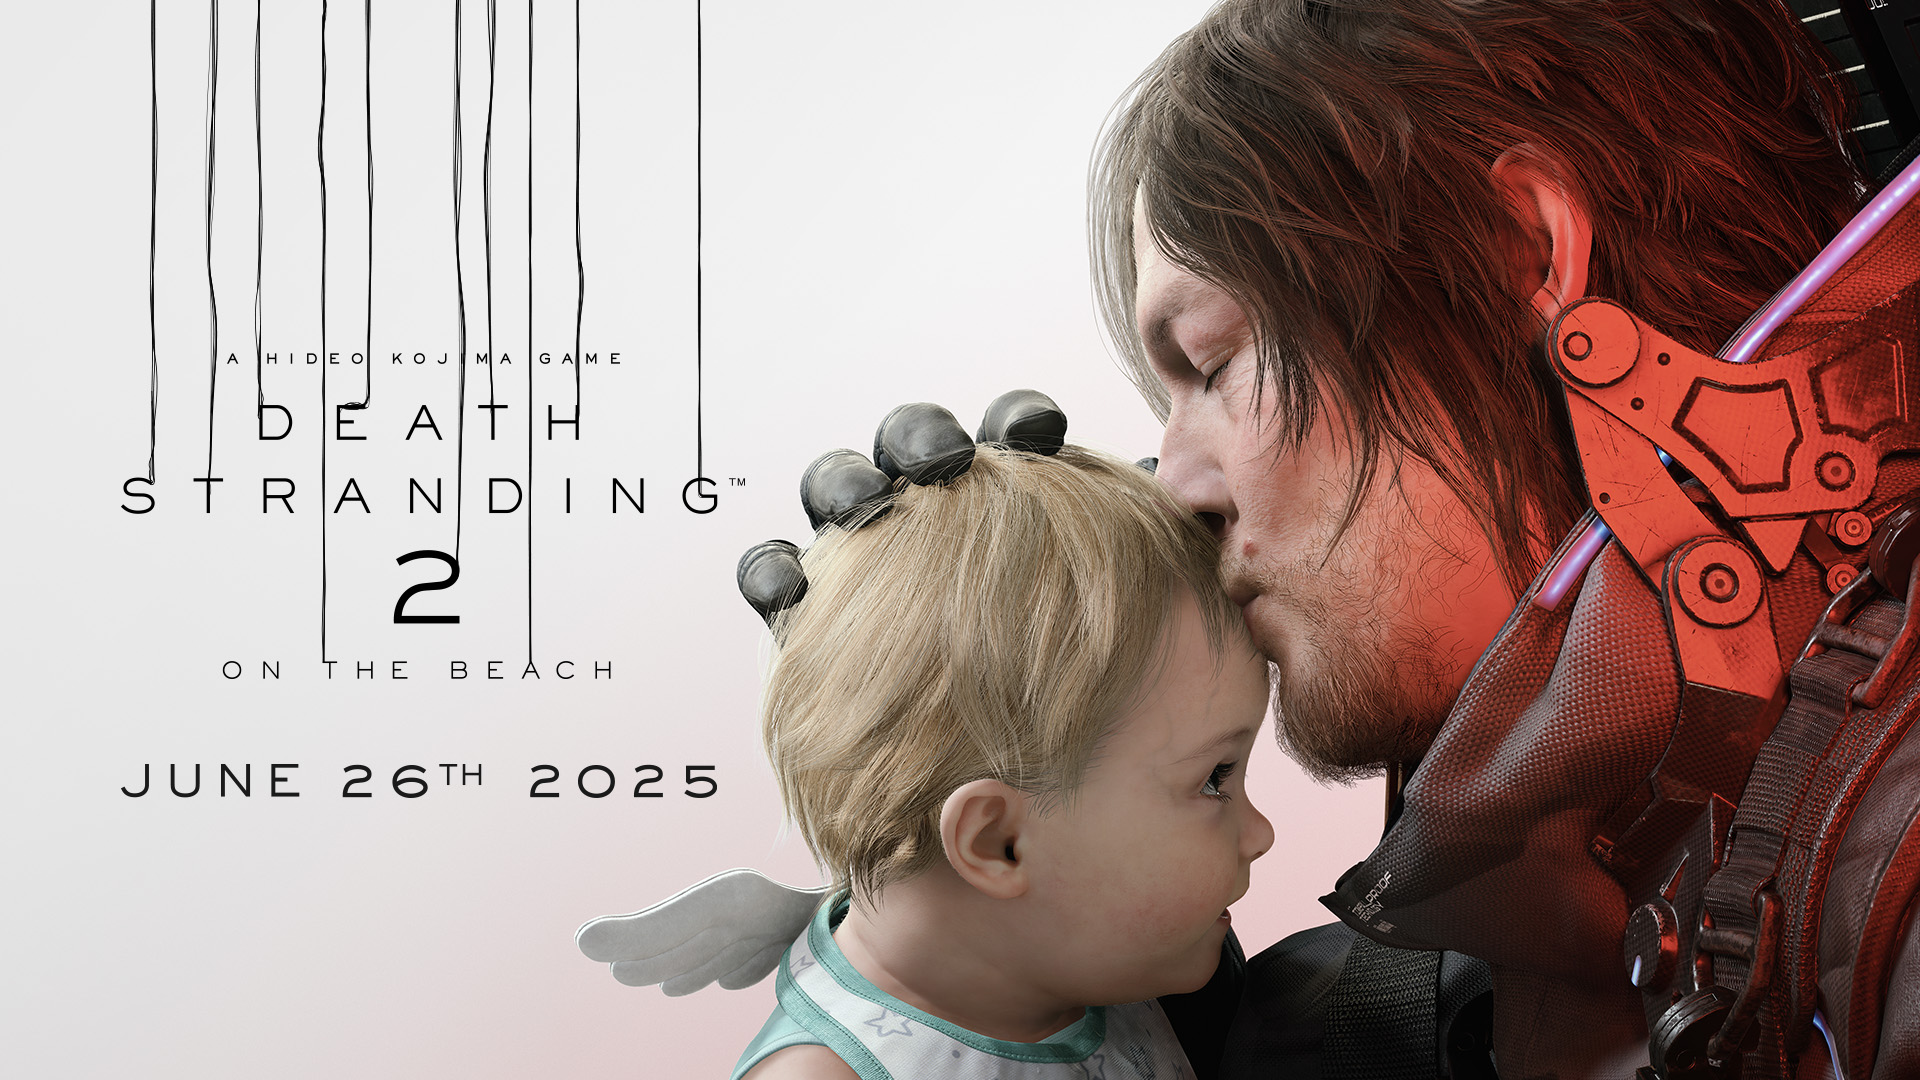
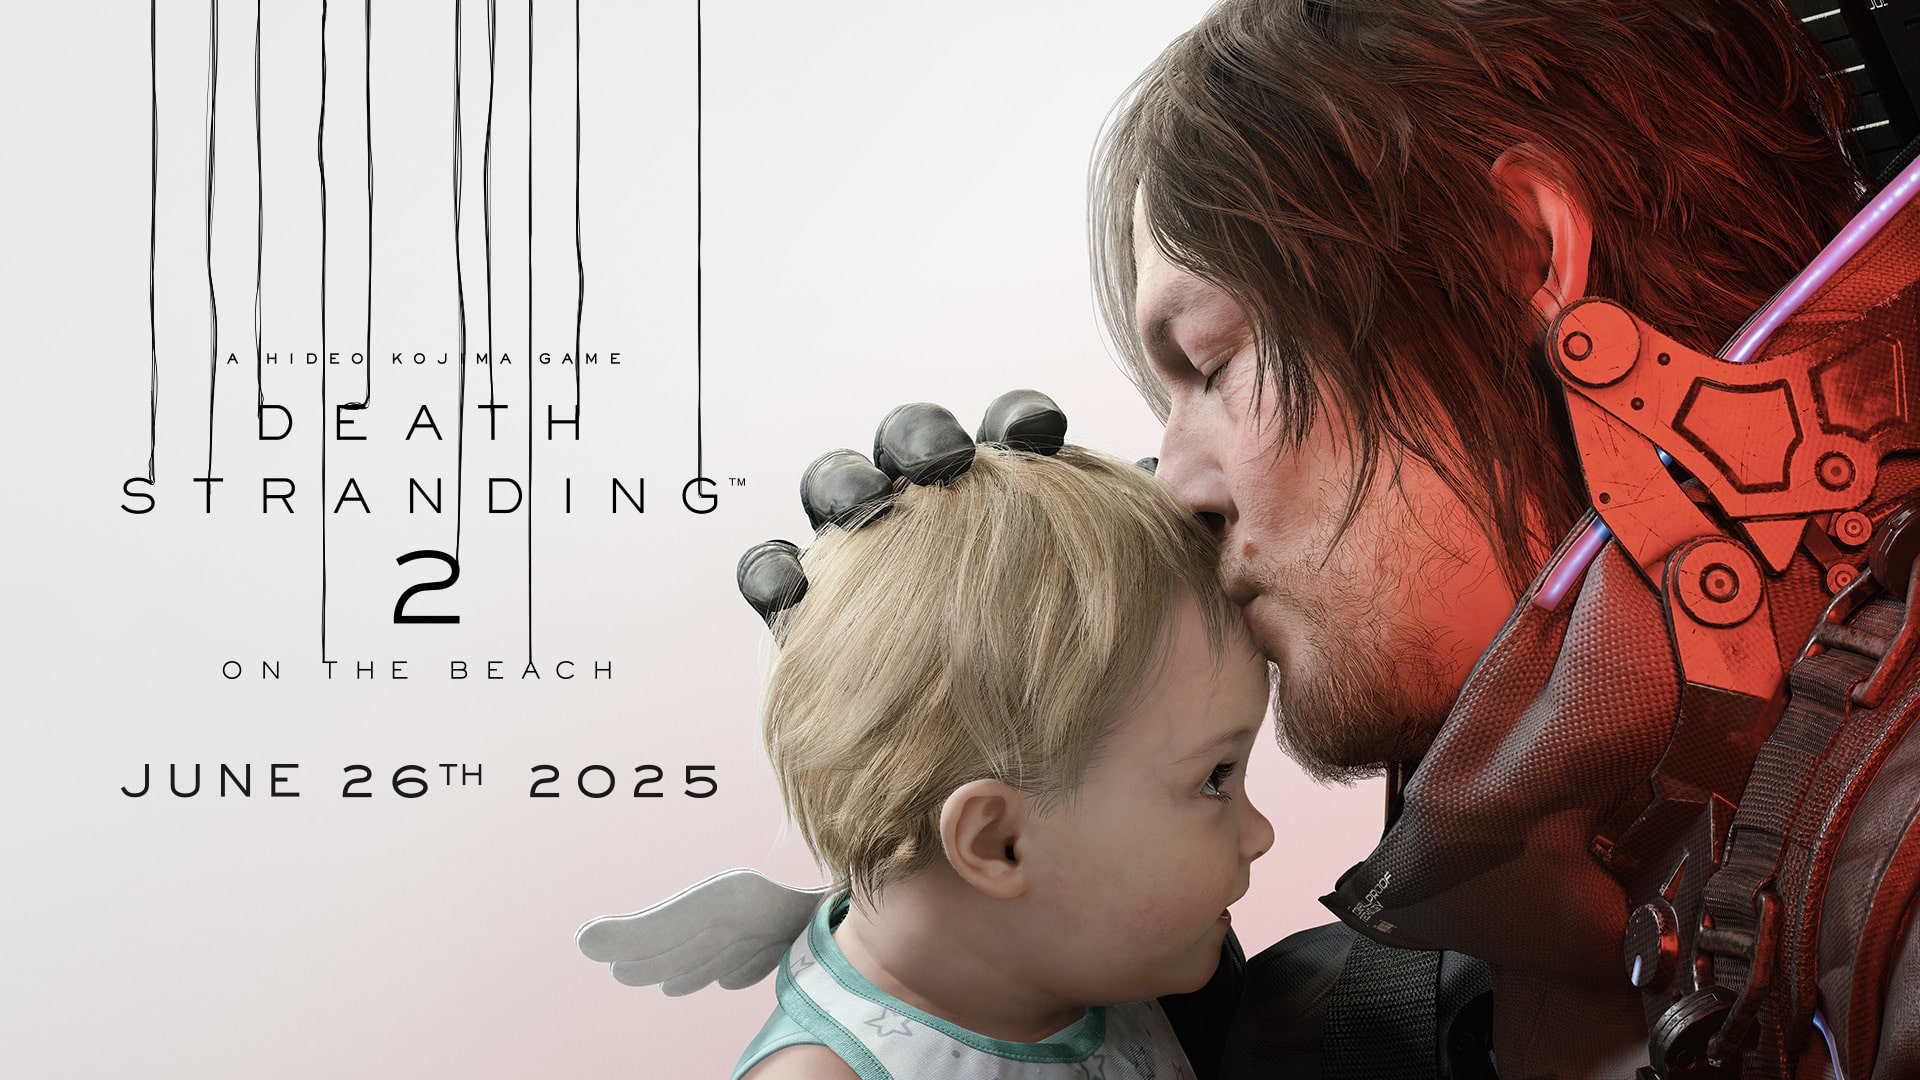
Optomizacion de imagenes para la carga mas rapida de la web

diff --git a/index.html b/index.html
@@ -722,7 +722,7 @@
             <img src="image/promotions/promo2.jpg" class="promo-img" alt="Promo 2" />
             <img src="image/promotions/promo3.jpg" class="promo-img" alt="Promo 3" />
             <img src="image/promotions/promo4.jpg" class="promo-img" alt="Promo 4" />
-            <img src="image/promotions/promo5.png" class="promo-img" alt="Promo 5" />
+            <img src="image/promotions/promo5.jpg" class="promo-img" alt="Promo 5" />
           </div>
 
           <div class="promo-indicators">
